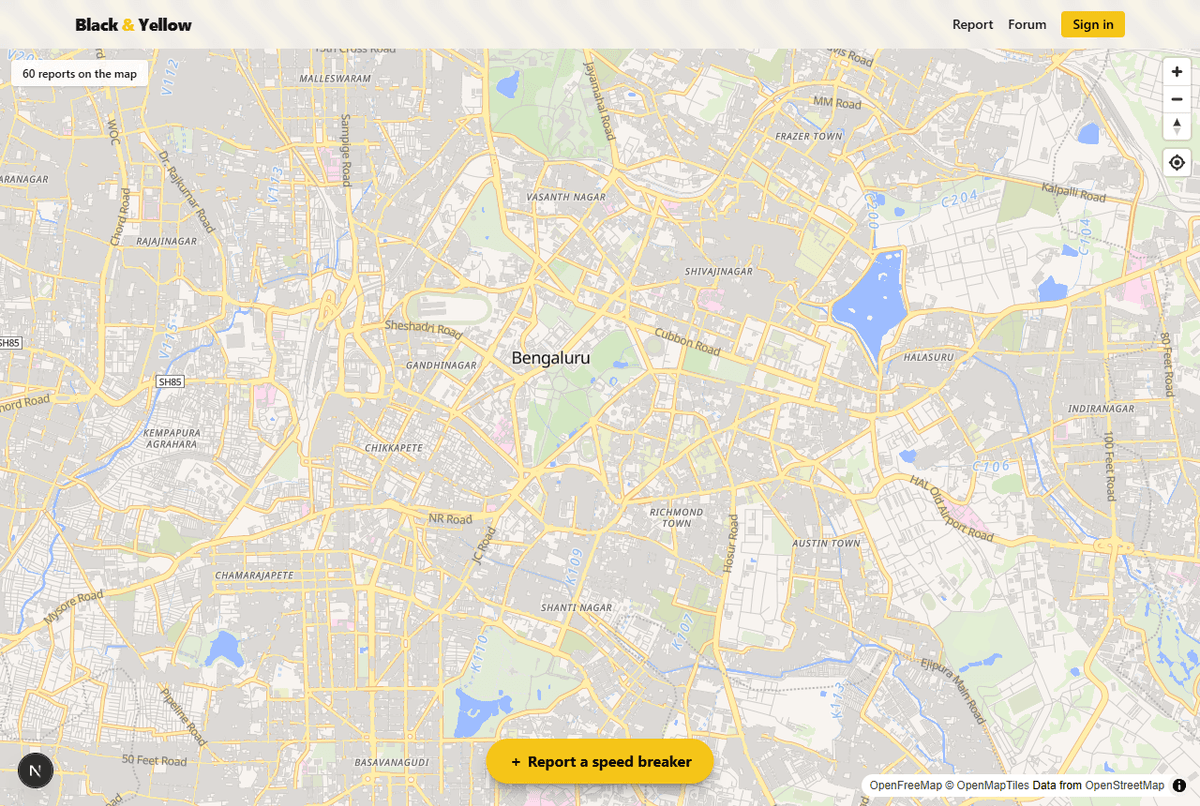
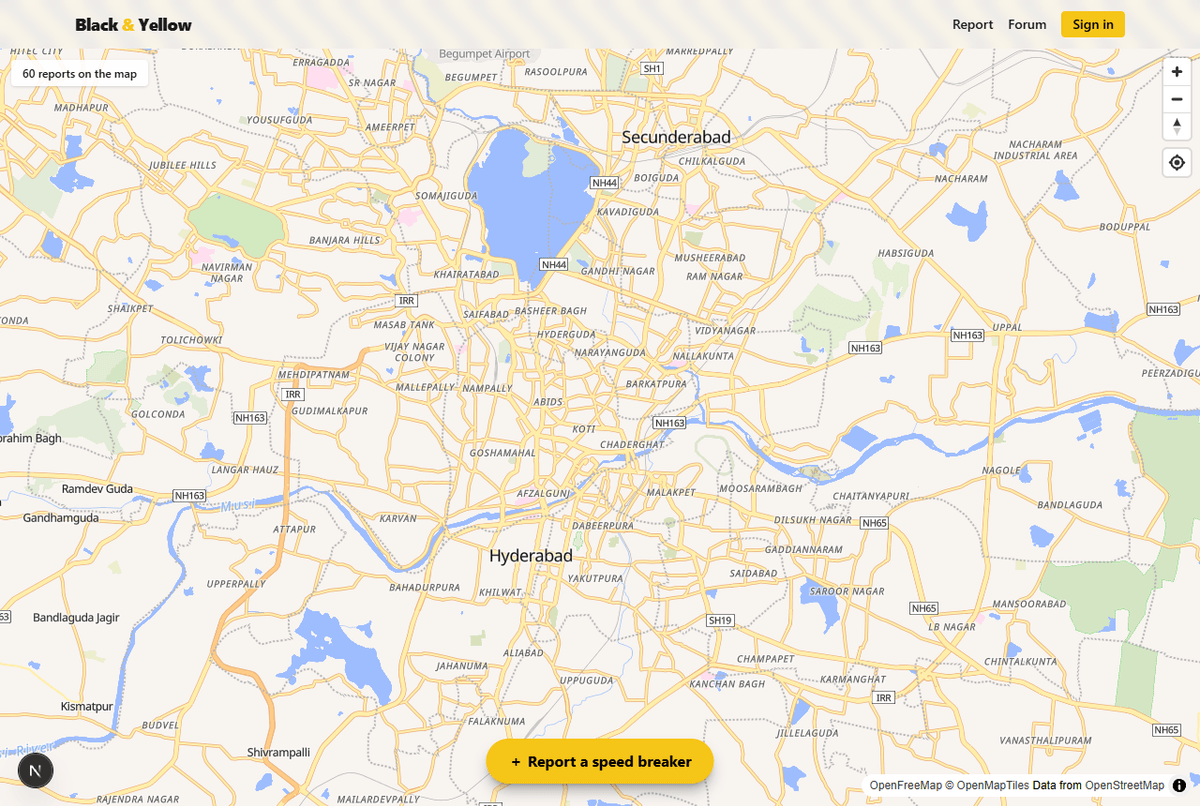
Default the pilot city to Hyderabad
- lib/config.ts + .env.example map center → Hyderabad (17.3850, 78.4867)
- regenerate map/submit screenshots for Hyderabad
- note the pilot city in MEMORY.md

diff --git a/lib/config.ts b/lib/config.ts
@@ -10,8 +10,9 @@ export const siteUrl =
 
 export const map = {
   center: [
-    num(process.env.NEXT_PUBLIC_MAP_CENTER_LNG, 77.5946),
-    num(process.env.NEXT_PUBLIC_MAP_CENTER_LAT, 12.9716),
+    // Default: Hyderabad (launch pilot city).
+    num(process.env.NEXT_PUBLIC_MAP_CENTER_LNG, 78.4867),
+    num(process.env.NEXT_PUBLIC_MAP_CENTER_LAT, 17.385),
   ] as [number, number],
   defaultZoom: num(process.env.NEXT_PUBLIC_MAP_DEFAULT_ZOOM, 12),
   styleUrl:

diff --git a/MEMORY.md b/MEMORY.md
@@ -23,7 +23,7 @@ Three parts:
 | Map submissions | **Anonymous allowed**, no login | Lowest friction to report |
 | Submission visibility | Hidden until a **moderator approves** | Anonymous ⇒ abuse risk; keep the public map clean |
 | Forum posting | **Requires login** (passwordless magic-link) | Accountability for discussion |
-| Geographic scope | **One city/region at launch** | Keeps free-tier usage low; easier to moderate. Map center is configurable via env |
+| Geographic scope | **One city/region at launch — piloting in Hyderabad** | Keeps free-tier usage low; easier to moderate. Map center is set via `NEXT_PUBLIC_MAP_CENTER_*` (defaults to Hyderabad, 17.3850 / 78.4867) |
 | Budget | **$0/year** | Personal funding. `*.vercel.app` subdomain, all free tiers |
 | Forum structure | **Per-pin auto threads + global board** (Announcements / Successes / General) | Space for both specific follow-up and general community talk |
 | Paint verification | User uploads "after" photos → moderator confirms → pin turns green + auto-post in Successes | Closes the loop, motivates |
